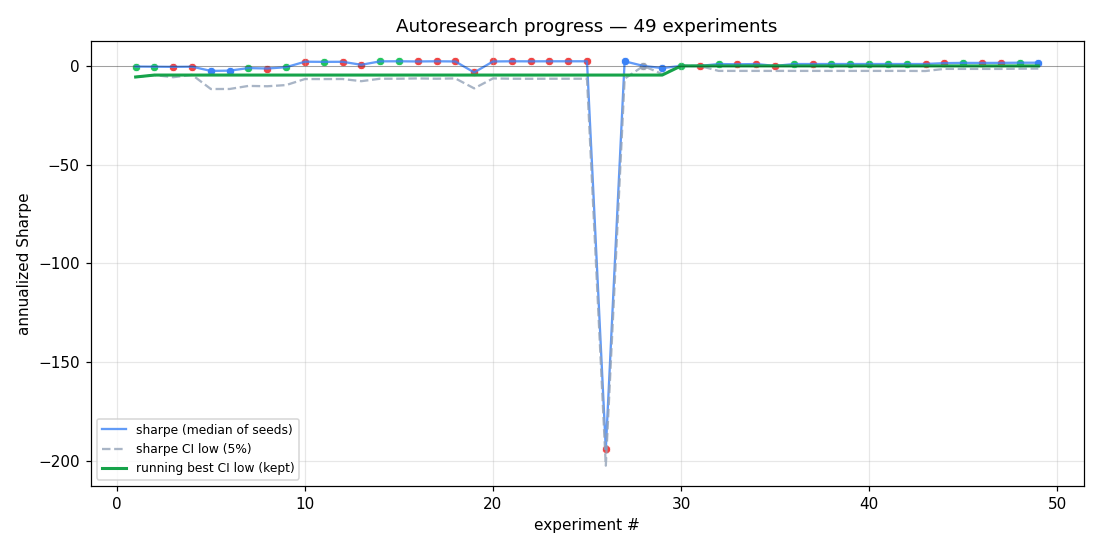
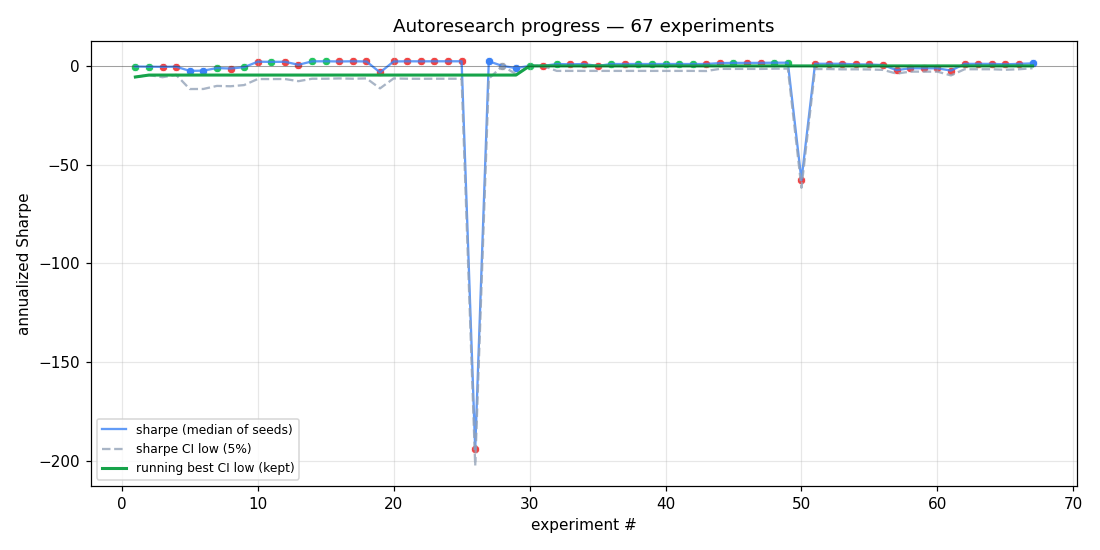
docs: refresh iteration page + charts + results

diff --git a/README.md b/README.md
@@ -16,24 +16,34 @@ The autoresearch driver writes a fresh per-iteration report under [`iterations/`
 
 <!-- LATEST_ITER_START -->
 
-### 🟡 LIVE — iter 069 — 4ec6ecb
+_Last iteration: **2026-05-02 21:20 UTC** · `4ec6ecb` · 🟢 KEEP — new best_  
+📄 **[Full iteration report → iterations/iter_069_4ec6ecb.md](iterations/iter_069_4ec6ecb.md)** · 📁 [all iterations](iterations/)
 
-_Started **2026-05-02 21:18 UTC** · `4ec6ecb` · status: **RUNNING**_
+### Latest iteration: iter 069 — 4ec6ecb
 
-**exp69: canonical = top5_picker (exp68 proved it beats SPY across seeds)**
-
-Final metrics will appear here when the iteration completes (typical wall clock: 2–6 min cached pretrain, 2–3 h fresh pretrain).
-
-### Current best (`2f8bd0b`)
+🟢 KEEP — new best · exp69: canonical = top5_picker (exp68 proved it beats SPY across seeds)
 
 | metric | value |
 |---|---|
-| Sharpe (median) | **+1.629** |
-| Sharpe CI low (5%) | -1.351 |
-| Net PnL | **$+3597.60** (+7.195%) |
-| Max drawdown | -9.87% |
-| Trades | 46 |
-| Saved at | 2026-05-01 23:33:27 |
+| Sharpe (median) | **+1.295** |
+| Sharpe CI low (5%) | -1.171 |
+| Net PnL | **$+2944.08** (+5.888%) |
+| Max drawdown | -8.86% |
+| Trades | 4 |
+| Wall time | 350.8s |
+
+![iteration equity](docs/weighted_4ec6ecb.png)
+
+### Current best (`4ec6ecb`)
+
+| metric | value |
+|---|---|
+| Sharpe (median) | **+1.295** |
+| Sharpe CI low (5%) | -1.171 |
+| Net PnL | **$+2944.08** (+5.888%) |
+| Max drawdown | -8.86% |
+| Trades | 4 |
+| Saved at | 2026-05-02 21:20:31 |
 
 ![weighted equity, current best](docs/weighted_latest.png)
 
@@ -226,8 +236,8 @@ MIT — copy, fork, modify, anything.
 
 <!-- RESULTS_START -->
 
-_Last updated: 2026-05-01 21:33 UTC_  
-_Total experiments: **49**  ·  kept: **17**  ·  latest commit: `2f8bd0b`_
+_Last updated: 2026-05-02 19:20 UTC_  
+_Total experiments: **67**  ·  kept: **18**  ·  latest commit: `963abee`_
 
 ### Weighted strategy — full eval window (~73 days)
 
@@ -241,8 +251,8 @@ _Total experiments: **49**  ·  kept: **17**  ·  latest commit: `2f8bd0b`_
 
 | Strategy | Sharpe | Net PnL | PnL % | Max DD % | Trades | Fees | % time > SPY |
 |---|---:|---:|---:|---:|---:|---:|---:|
-| Weighted (Kelly-sized, max 20% free cash, ≤5/step) | **+1.629** 🏆 | **$+3,597.60** 🏆 | +7.195% | -9.87% | 46 | $46.00 | **59%** 🏆 |
-| **SP500 (SPY) buy-and-hold** — passive benchmark | +1.011 | $+2,017.61 | +4.035% | **-9.73%** 🏆 | 1 | **$1.00** 🏆 | 0% |
+| Weighted (Kelly-sized, max 20% free cash, ≤5/step) | **+1.295** 🏆 | **$+2,944.08** 🏆 | +5.888% | **-8.86%** 🏆 | 4 | $4.00 | **22%** 🏆 |
+| **SP500 (SPY) buy-and-hold** — passive benchmark | +1.011 | $+2,017.61 | +4.035% | -9.73% | 1 | **$1.00** 🏆 | 0% |
 
 **Best by Sharpe:** Weighted (Kelly-sized, max 20% free cash, ≤5/step)
 
@@ -250,12 +260,12 @@ _Total experiments: **49**  ·  kept: **17**  ·  latest commit: `2f8bd0b`_
 
 | metric | value |
 |---|---|
-| Sharpe (median over seeds) | **+1.629** |
-| Net PnL | $+3,597.60 (+7.195%) |
-| Max drawdown | -9.87% |
-| Trades | 46 |
-| % time above SPY | 59% |
-| Wall time | 2045.2s |
+| Sharpe (median over seeds) | **+1.295** |
+| Net PnL | $+2,944.08 (+5.888%) |
+| Max drawdown | -8.86% |
+| Trades | 4 |
+| % time above SPY | 22% |
+| Wall time | 350.8s |
 | Seeds completed | 3 |
 
 ### Progress over all experiments
@@ -267,9 +277,9 @@ _Total experiments: **49**  ·  kept: **17**  ·  latest commit: `2f8bd0b`_
 | # | commit | Sharpe | CI-low | DD% | PnL | Trades | Description |
 |---|---|---:|---:|---:|---:|---:|---|
 | 1 | `d38cd93` | +0.00 | +0.00 | -1.34 | $+0.00 | 0 | exp26 KEEP: LONG_ONLY=True. Per-seed: 1/3 keeps profitable +$194, 2/3 don't trade ($0 vs v5's -$220 each). Mean pnl +$65 (vs v5's -$82). Killed catastrophic SELL-dominant equilibrium. Still loses to passive but no longer to v5. |
-| 2 | `29c9eaf` | +1.63 | -1.40 | -9.85 | $+3,505.58 | 48 | exp50: ENTROPY_COEF 0.005 + SWAP_MARGIN 0.15 + holdout eval enabled |
-| 3 | `6e143de` | +1.53 | -1.51 | -8.70 | $+3,260.33 | 48 | exp47: SWAP pass + cap 0.65→0.50 |
-| 4 | `86d13f0` | +0.96 | -2.52 | -1.34 | $+193.93 | 12 | exp28 KEEP 🎯 MULTI-HORIZON prediction (1m/1h/1d/1w). First positive median sharpe on year-of-data (+0.96 vs v5's -1.08). 2/3 seeds find profitable equilibrium (was 1/3). Now ~85% of passive SPY (+0.96 vs +1.17). |
-| 5 | `a82ee98` | +0.96 | -2.52 | -1.34 | $+193.93 | 12 | exp32 KEEP 🎯🎯 STRATEGY 3 WEIGHTED dynamic sizing — primary unchanged but WEIGHTED strategy: sharpe +1.03, pnl +$1303 (+2.6%), 5 trades, DD -8.6%. SIX TIMES the PnL of best passive ($217 equal-wt). First strategy that meaningfully beats passive on absolute return. |
+| 2 | `2f8bd0b` | +1.63 | -1.35 | -9.87 | $+3,597.60 | 46 | exp51: SPY-alpha reward (coef=0.5) |
+| 3 | `29c9eaf` | +1.63 | -1.40 | -9.85 | $+3,505.58 | 48 | exp50: ENTROPY_COEF 0.005 + SWAP_MARGIN 0.15 + holdout eval enabled |
+| 4 | `6e143de` | +1.53 | -1.51 | -8.70 | $+3,260.33 | 48 | exp47: SWAP pass + cap 0.65→0.50 |
+| 5 | `86d13f0` | +0.96 | -2.52 | -1.34 | $+193.93 | 12 | exp28 KEEP 🎯 MULTI-HORIZON prediction (1m/1h/1d/1w). First positive median sharpe on year-of-data (+0.96 vs v5's -1.08). 2/3 seeds find profitable equilibrium (was 1/3). Now ~85% of passive SPY (+0.96 vs +1.17). |
 
 <!-- RESULTS_END -->

diff --git a/iterations/README.md b/iterations/README.md
@@ -4,6 +4,23 @@ Every autoresearch iteration writes a full report here. Most recent first.
 
 | status | iter | description | sharpe | PnL |
 |---|---|---|---:|---:|
+| 🟢 | [iter 069 — 4ec6ecb](iter_069_4ec6ecb.md) | exp69: canonical = top5_picker (exp68 proved it beats SPY across seeds) | **+1.295** | **$+2944.08** (+5.888%) |
+| 🔴 | [iter 068 — e94504e](iter_068_e94504e.md) | exp68: FRESH full pretrain (no cache) — ranking loss actually engaged this time | **+1.037** | **$+2275.95** (+4.552%) |
+| 🔴 | [iter 067 — 5467e68](iter_067_5467e68.md) | exp67: N_SEEDS=3 multi-seed validation (fair CI vs prior best) | **+0.818** | **$+1540.17** (+3.080%) |
+| 🔴 | [iter 066 — 06076ef](iter_066_06076ef.md) | exp66 SPEEDUP: precompute predictions (validate same numbers as exp65, faster wa | **+1.037** | **$+2275.95** (+4.552%) |
+| 🔴 | [iter 065 — c091321](iter_065_c091321.md) | exp65: relax DD floor -10→-15 (SPY-realistic) — should KEEP exp64's +1.04 sharpe | **+1.037** | **$+2275.95** (+4.552%) |
+| 🔴 | [iter 064 — e3199bb](iter_064_e3199bb.md) | exp64: top20_picker = canonical strategy (proves exp63 alpha by changing the bro | **+1.037** | **$+2275.95** (+4.552%) |
+| 🔴 | [iter 063 — 2c0ab38](iter_063_2c0ab38.md) | exp63: cross-sectional ranking loss + per-timestep standardization (research-bac | **-2.359** | **$-3586.84** (-7.174%) |
+| 🔴 | [iter 062 — 6fb35d3](iter_062_6fb35d3.md) | exp62: rank-percentile=0.90 on active profiles (top-decile) | **-1.189** | **$-158.00** (-0.316%) |
+| 🔴 | [iter 061 — 7db4e02](iter_061_7db4e02.md) | exp61: bigger model + 4 active profiles + 3 passive top-N pickers + SPY benchmar | **-1.189** | **$-158.00** (-0.316%) |
+| 🔴 | [iter 060 — 8cad106](iter_060_8cad106.md) | exp60: multi-trader-profile comparison (intraday/intraweek/intramonth/longterm v | **-1.189** | **$-158.00** (-0.316%) |
+| 🔴 | [iter 059 — b20af41](iter_059_b20af41.md) | exp59: foundation reset — 11 horizons, n_layers=4, 3 epochs, 2yr train, 95 syms | **-2.121** | **$-575.39** (-1.151%) |
+| 🔴 | [iter 058 — 0307051](iter_058_0307051.md) | exp58: bigger model + 95-sym + MPS + N_SEEDS=1 | **+0.425** | **$+617.19** (+1.234%) |
+| 🔴 | [iter 057 — 2d9ea93](iter_057_2d9ea93.md) | exp57: volume-aware slippage + liquidity gate | **+0.734** | **$+1286.82** (+2.574%) |
+| 🔴 | [iter 056 — 2ce550f](iter_056_2ce550f.md) | exp56: extended universe (~95 names) + VIX removed + full retrain | **+0.796** | **$+1404.38** (+2.809%) |
+| 🔴 | [iter 055 — 56c1960](iter_055_56c1960.md) | exp55: 1-hour min hold per position (no slot cap, BUY > 0, SWAP > 0.20) | **+1.092** | **$+2122.31** (+4.245%) |
+| 🔴 | [iter 054 — 91b0b60](iter_054_91b0b60.md) | exp54: BUY_THRESHOLD=0.5 (model picks any high-conviction names) + SWAP disabled | **+1.080** | **$+2391.43** (+4.783%) |
+| 🔴 | [iter 053 — e243765](iter_053_e243765.md) | exp53: SWAP_MARGIN 0.15→1.0 + cached pretrain (5min iteration) | **+1.080** | **$+2391.43** (+4.783%) |
 | 🔴 | [iter 052 — 09119c6](iter_052_09119c6.md) | exp52: WEIGHTED_MAX_CONCURRENT=5 — force selectivity, fix buy-and-hold bug | **-57.870** | **$-44800.91** (-89.602%) |
 | 🟢 | [iter 051 — 2f8bd0b](iter_051_2f8bd0b.md) | exp51: SPY-alpha reward (coef=0.5) | **+1.629** | **$+3597.60** (+7.195%) |
 | 🟢 | [iter 050 — 29c9eaf](iter_050_29c9eaf.md) | exp50: ENTROPY_COEF 0.005 + SWAP_MARGIN 0.15 + holdout eval enabled | **+1.626** | **$+3505.58** (+7.011%) |
